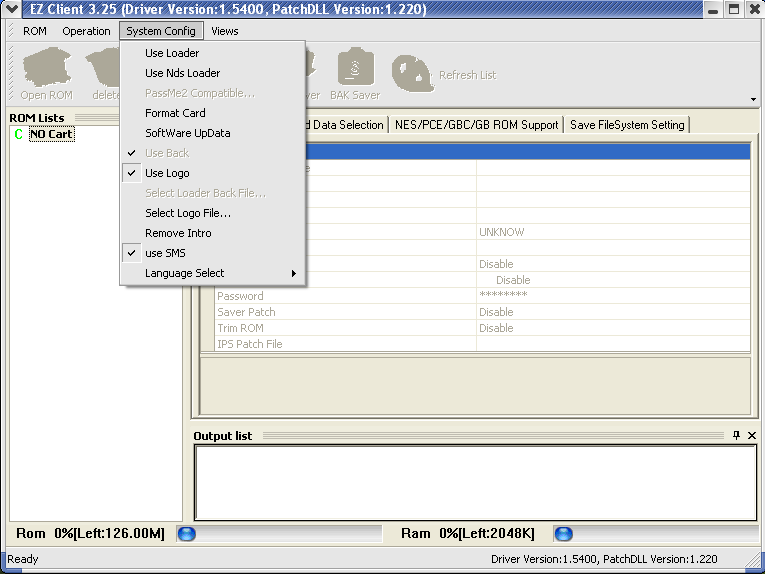
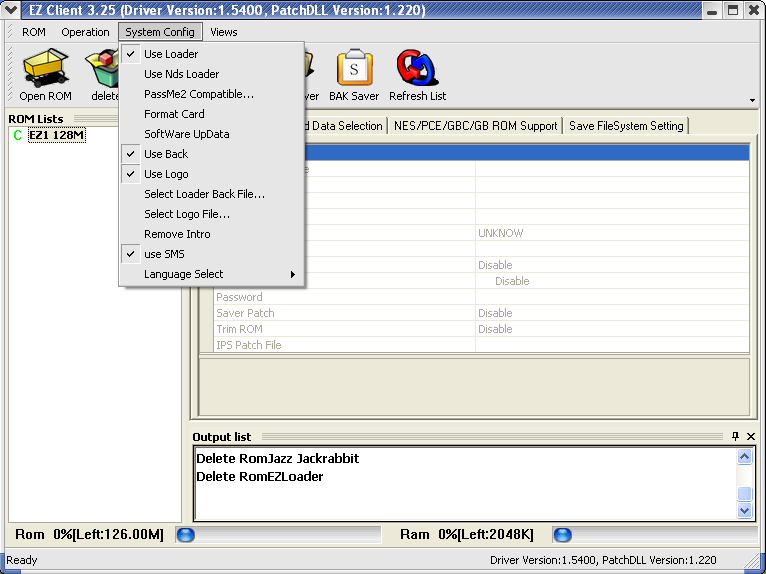
progress

Changed region(s): [[0.0, 0.0, 1.0, 1.0]]

diff --git a/site/blog/flash2advance/index.php b/site/blog/flash2advance/index.php
@@ -157,12 +157,31 @@ The wonders of how literally anything got done before the days of USB.<br/><br/>
     This linker works with their very own fancy "EZ-Client" software, which has support for both EZ-Flash I and EZ-Flash II cartridges, with EZ-Flash II cartridges being up to 1 Gigabit in size, or 125 MB. <br/>
     <img src="/assets/img/blog/flash2advance/ez2_client1.png"><br/><br/>
 
-    Interestingly enough, having the client software open causes the LED on the linker to start doing this "heartbeat" type of flickering.<br/>
-    <video class="interruptVideo" width="640" height="360" controls>
+    Interestingly enough, having the client software open causes the LED on the linker to start doing this "heartbeat" type of flickering. It only does this when there is no cartridge inserted, though.<br/>
+    <video width="640" height="360" controls>
     <source src="/assets/vid/ez2_heartbeat.webm" type="video/webm">
     <br/>
     <span style="color: red">Your browser doesn't appear to be able to support this video.</span><br/>
     </video><br/><br/>
+
+    Anyway, attach a cartridge into the linker, and the software will automatically update to show the contents and type of cartridge.<br/>
+    <img src="/assets/img/blog/flash2advance/ez2_client3.png"><br/><br/>
+
+    If we were to clear the cartridge and take a look at the <code>System Config</code> menu, you'll see we get a handful of options, such as what loader we want and what logo we want to use for the loader. I'm not entirely sure what the <code>Use Back</code> option is though.<br/>
+    <img src="/assets/img/blog/flash2advance/ez2_client2.png"><br/><br/>
+
+    None of this is really important to us at this very moment, so let's add some games. To do this, all we need to do is hit the "Open ROM" button, and navigate to a game we want to add. For this, we'll be using WarioWare, Inc. and Jazz Jackrabbit. You'll notice that since we have the <code>Use Loader</code> option enabled, it inserts this "EZLoader" at the top of the cartridge, and that's so that we get a nice menu to select a game.<br/>
+    <img src="/assets/img/blog/flash2advance/ez2_client4.png"><br/><br/>
+
+    From here, we're pretty much done. All we have to do now is press the <code>Burn</code> butto
+    n, and watch as it begins writing to our cartridge. The status LED will turn red for the entire duration of this operation, and for the 12 MiB total that these games take up, it took about a couple minutes or so.<br/>
+    <img src="/assets/img/blog/flash2advance/ez2_client5.png"><br/><br/>
+
+    That's it! From here, we pu the cartridge into our Game Boy, and we're first greeted with this... very good... looking splash screen.<br/>
+    <img width="720px" src="/assets/img/blog/flash2advance/ez2_gba1.jpg"><br/>
+
+    Press a button, and we're taken to the EZLoader main menu.<br/>
+    <img width="720px" src="/assets/img/blog/flash2advance/ez2_gba2.jpg"><br/>
 </p>
 
 <br/>
